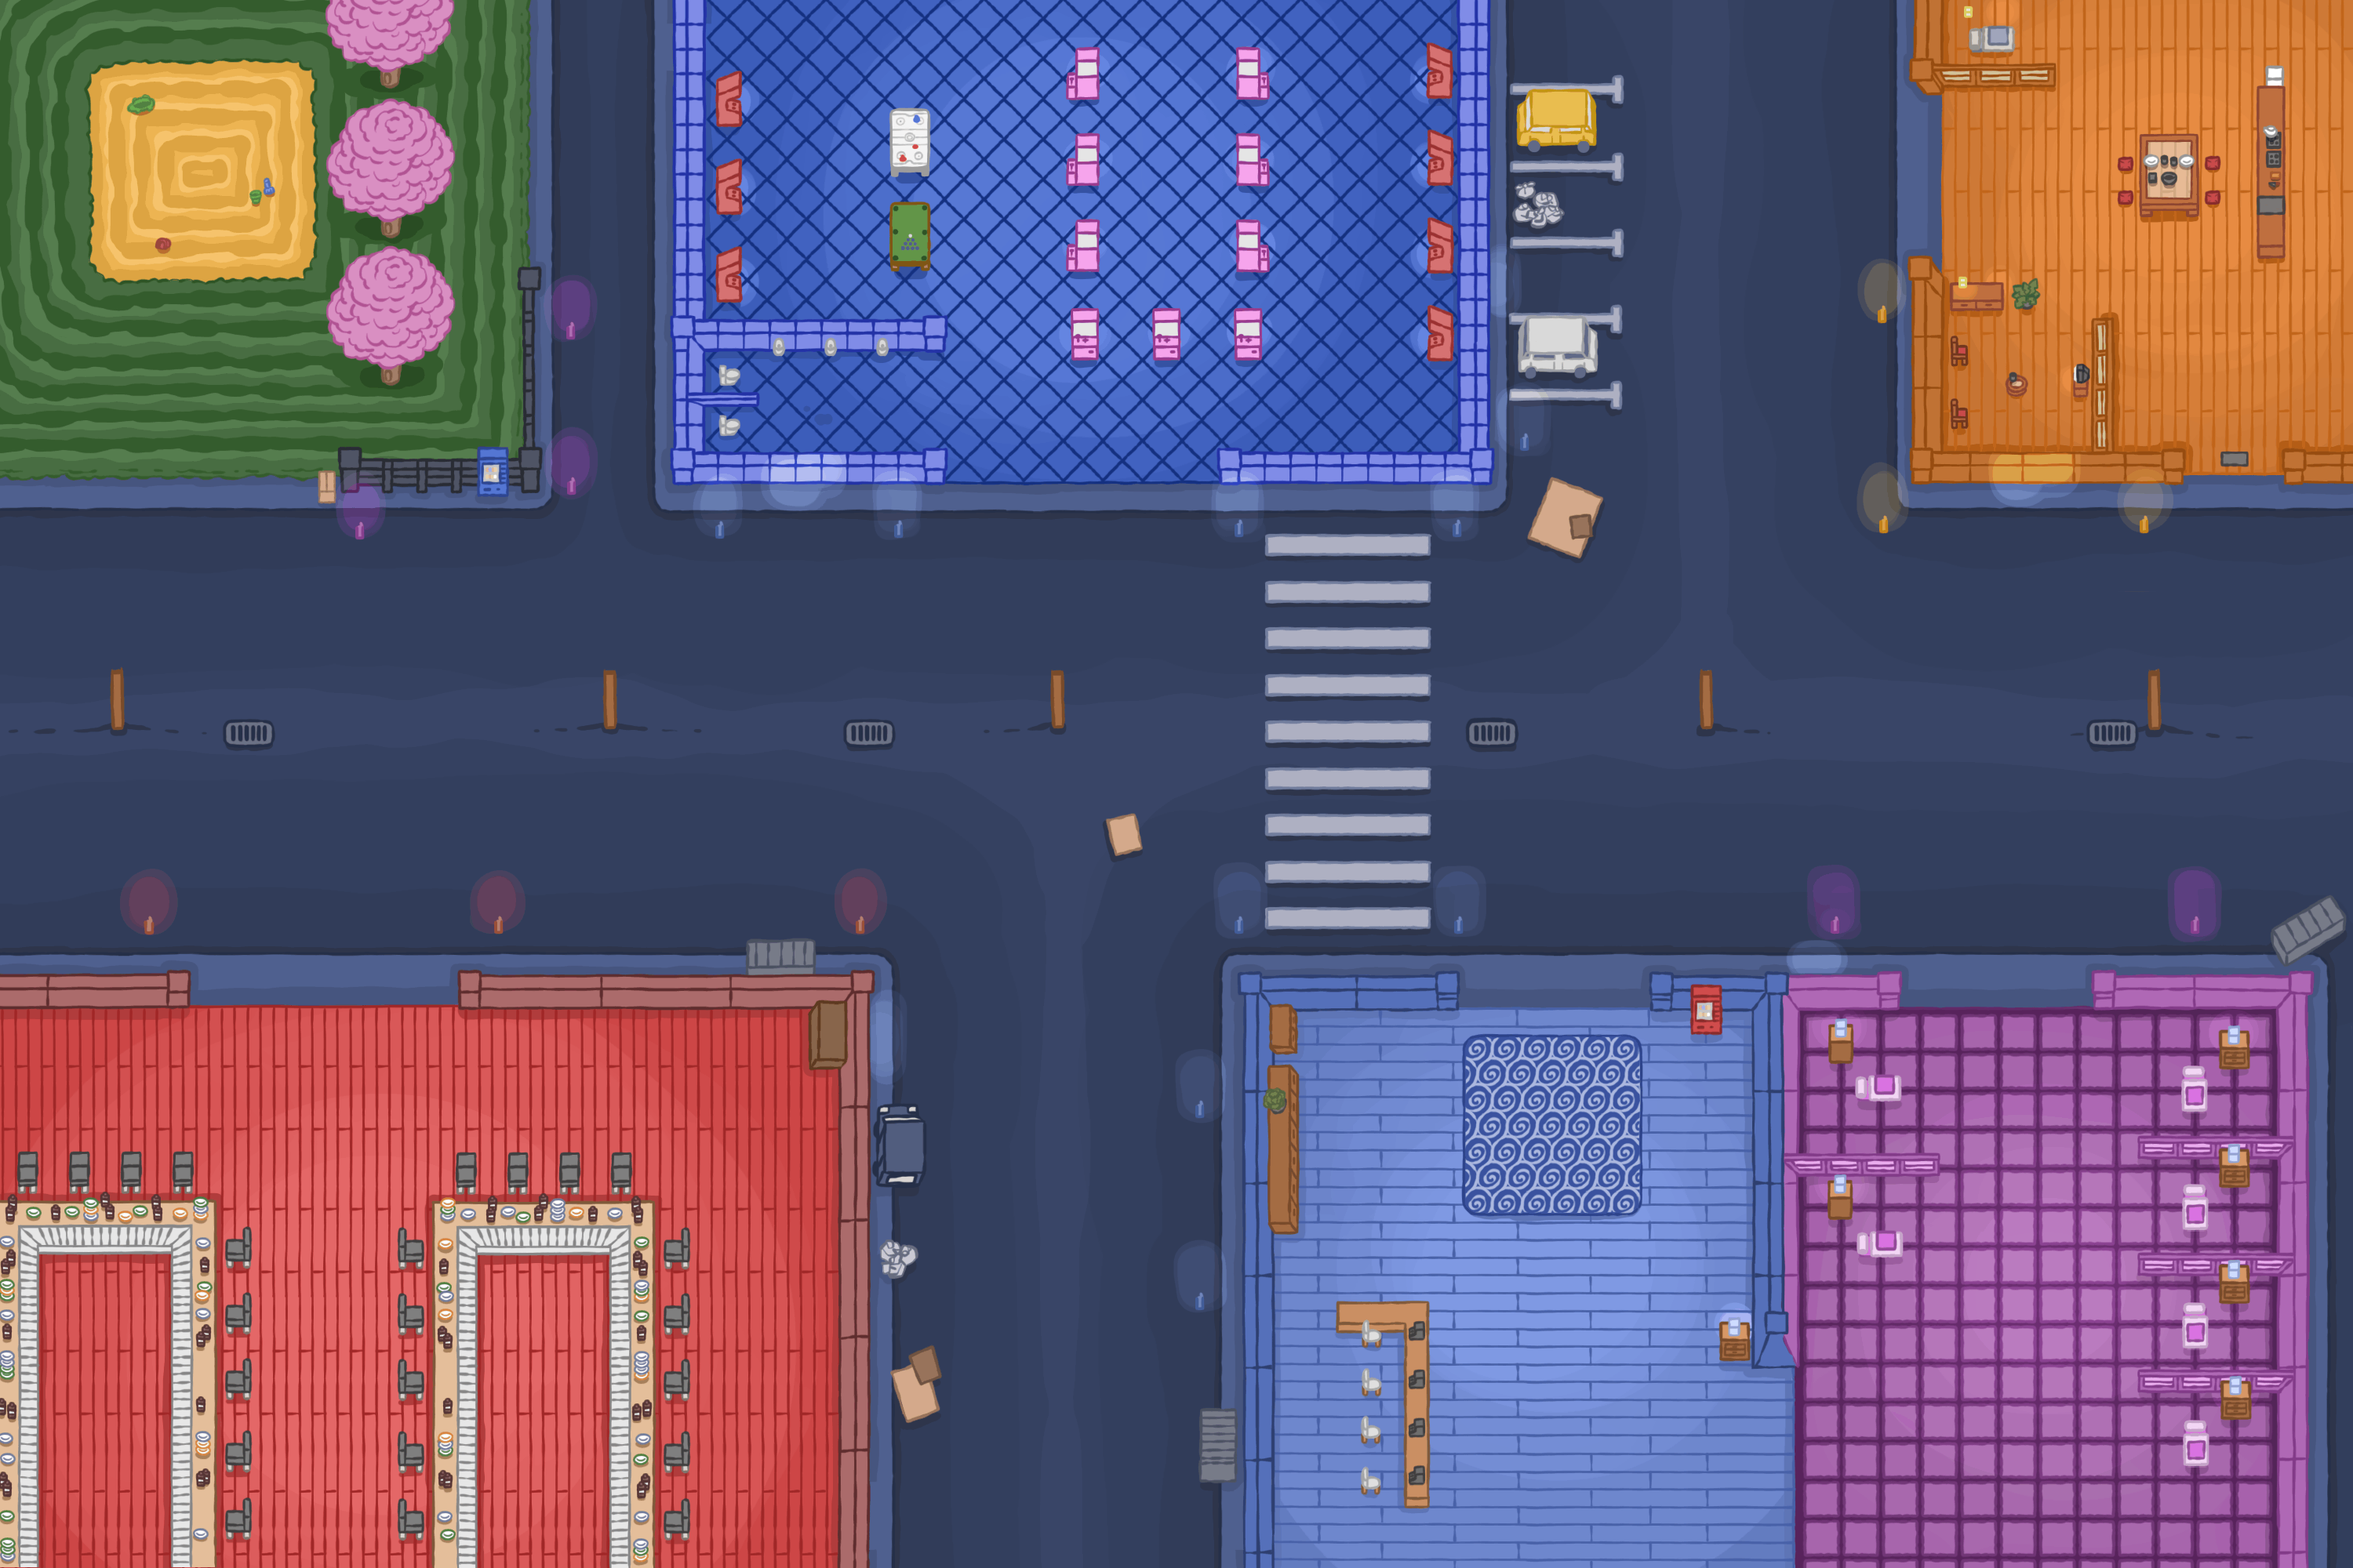
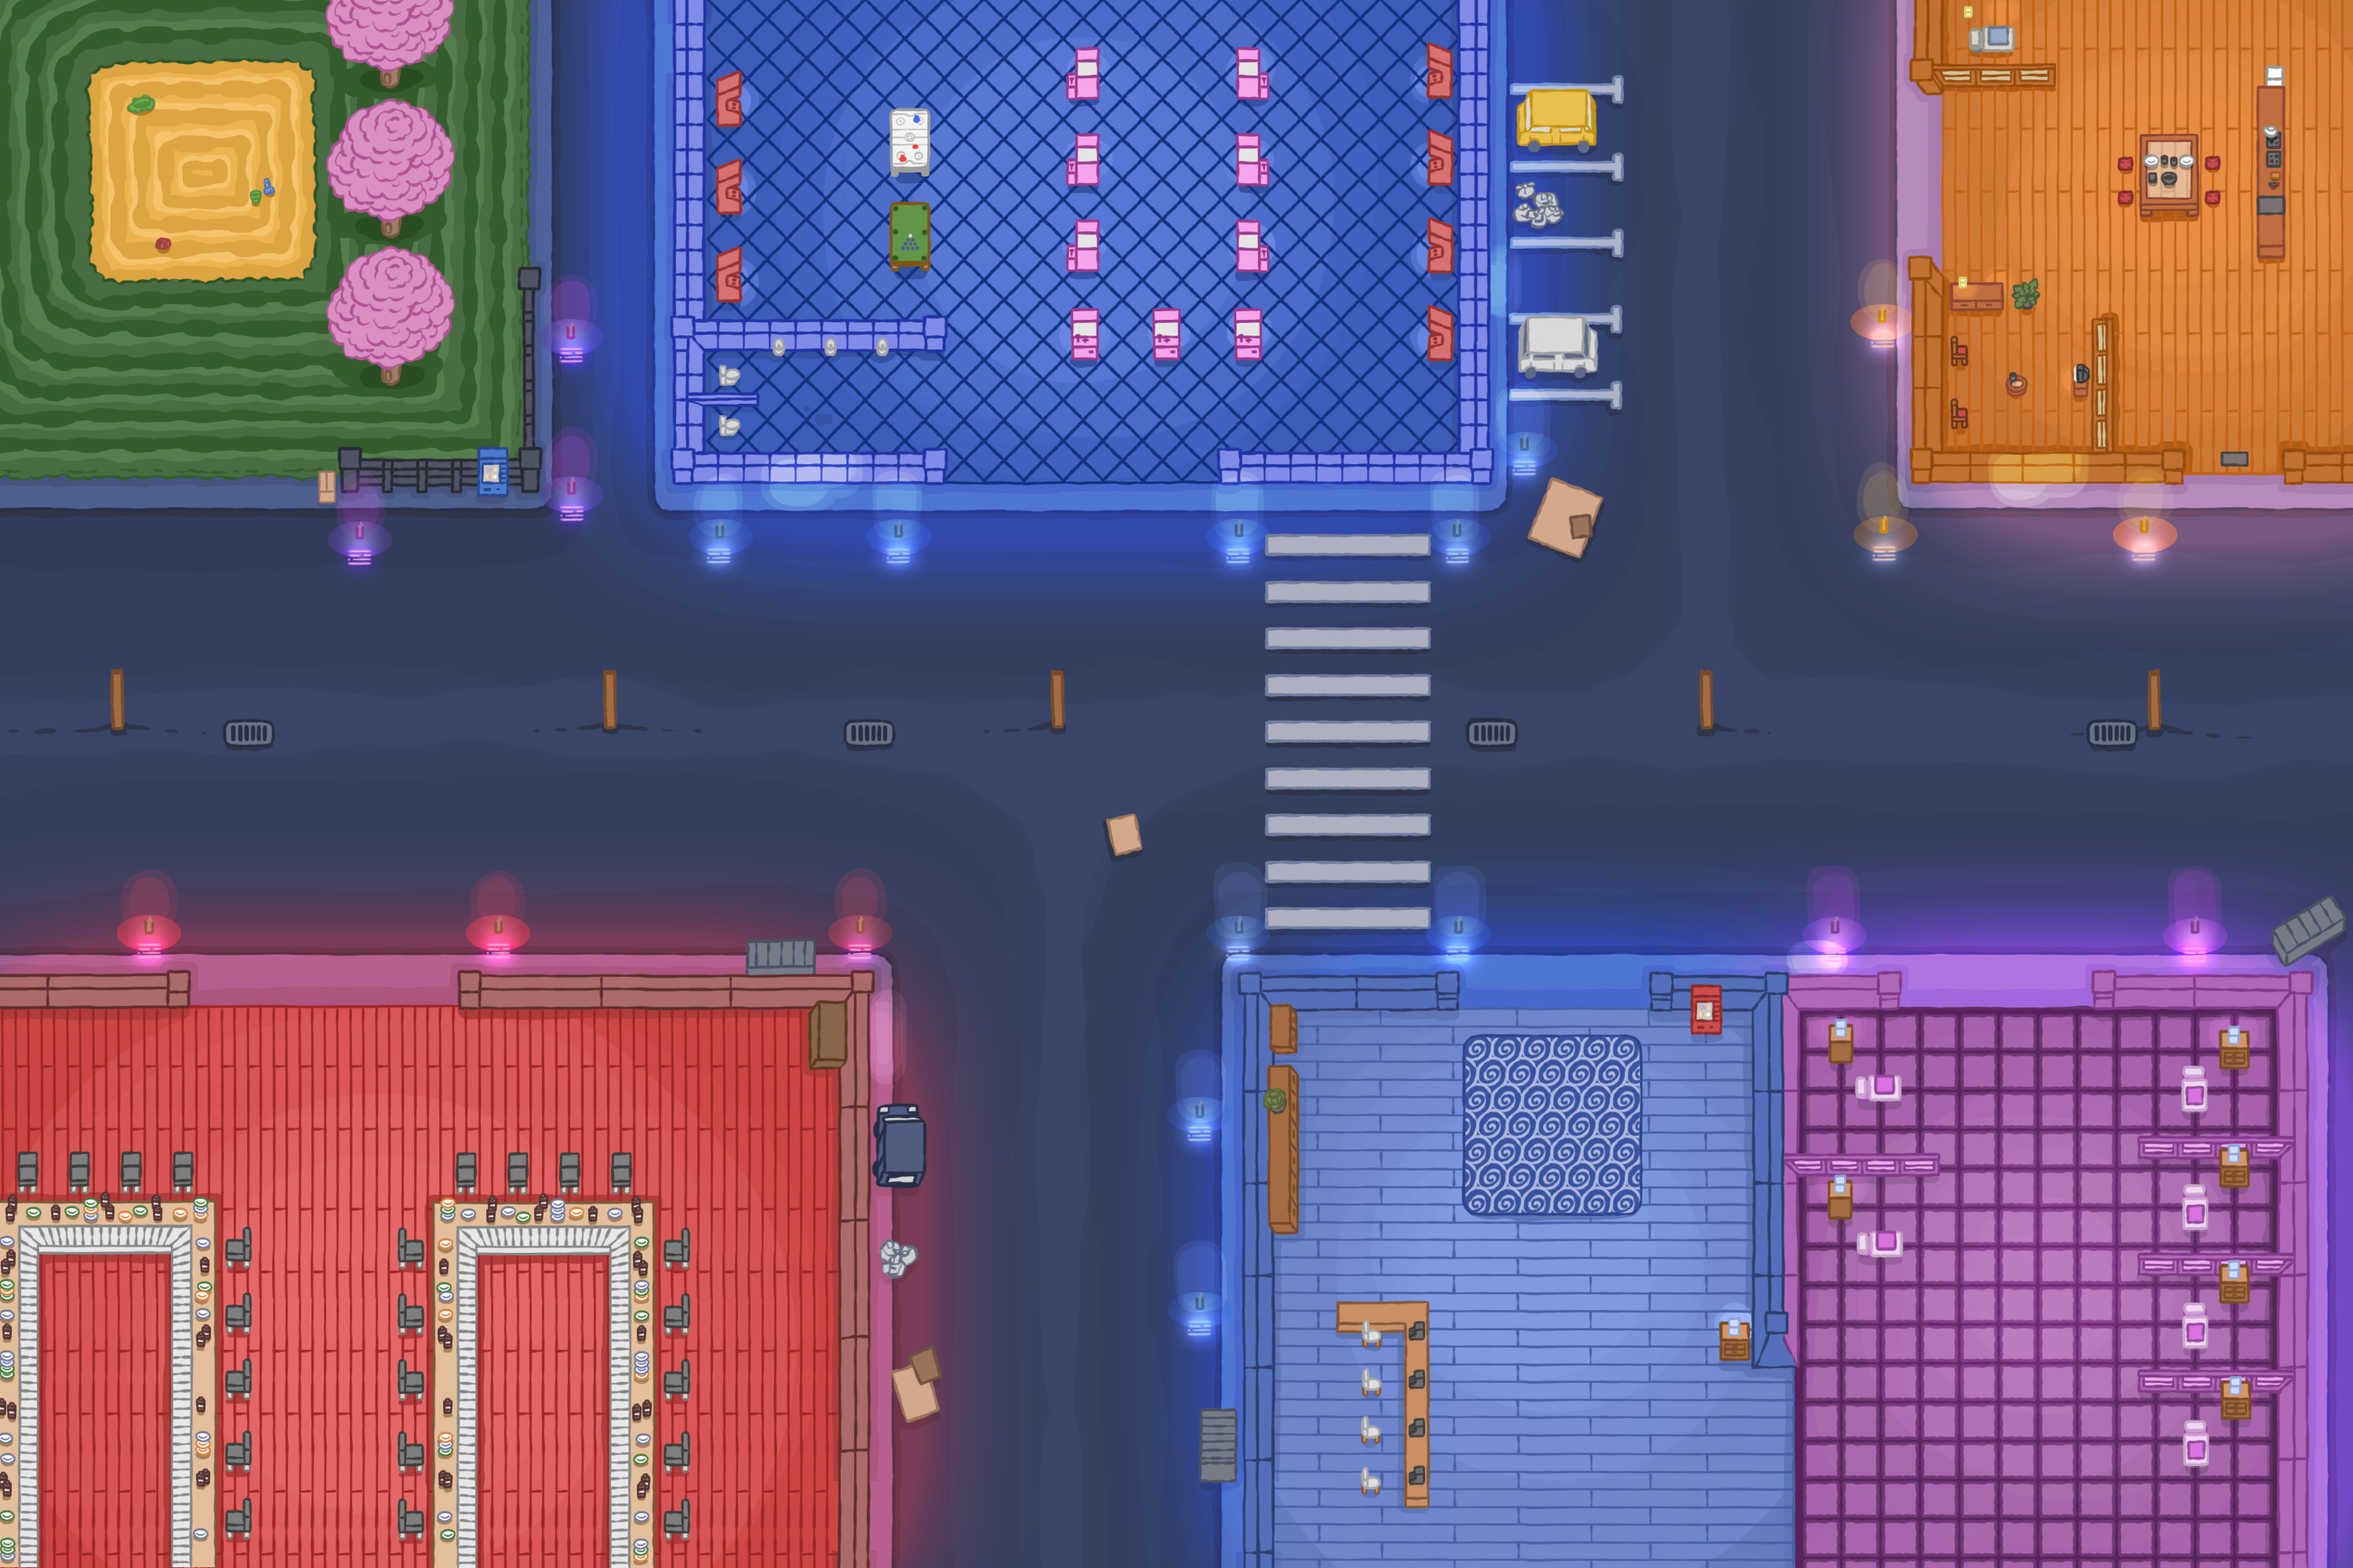
0.7.15 : ajout de la pluie + upgrade des assets map1

diff --git a/public/js/MapManager.js b/public/js/MapManager.js
@@ -1,6 +1,62 @@
 import { DEFAULT_GAME_SETTINGS } from './game-constants.js';
 
 // MapManager.js
+
+// Classe pour gérer l'effet de pluie spécifique à certaines maps
+class RainEffect {
+    constructor(basePath) {
+        this.spriteSheet = new Image();
+        // Utiliser le même chemin que les autres assets de la map
+        this.spriteSheet.src = `${basePath}/rain.png`;
+        
+        // Configuration de l'animation
+        this.frameWidth = 3000;   // 9000px ÷ 3 frames = 3000px par frame
+        this.frameHeight = 2000;  // Hauteur totale du spritesheet
+        this.totalFrames = 3;     // Nombre total de frames
+        this.currentFrame = 0;    // Frame actuelle
+        this.frameInterval = 100; // Intervalle entre les frames en ms
+        this.lastFrameTime = 0;
+        
+        // Paramètres de la pluie
+        this.opacity = 0.3;       // Transparence de la pluie
+        this.scale = 0.67;        // Scale pour adapter à une map de 2000x1500
+    }
+
+    update(currentTime) {
+        if (currentTime - this.lastFrameTime > this.frameInterval) {
+            this.currentFrame = (this.currentFrame + 1) % this.totalFrames;
+            this.lastFrameTime = currentTime;
+        }
+    }
+
+    draw(context, camera, mapWidth, mapHeight, canvas) {
+        if (!this.spriteSheet.complete) return;
+
+        context.save();
+        context.globalAlpha = this.opacity;
+        
+        const translateX = Math.round(canvas.width / 2 - camera.x * camera.scale);
+        const translateY = Math.round(canvas.height / 2 - camera.y * camera.scale);
+        
+        context.setTransform(
+            camera.scale * this.scale, 0,
+            0, camera.scale * this.scale,
+            translateX, translateY
+        );
+        
+        // Dessiner une seule fois l'effet de pluie car les dimensions correspondent déjà à la map
+        context.drawImage(
+            this.spriteSheet,
+            this.currentFrame * this.frameWidth, 0,  // Position source X et Y dans le spritesheet
+            this.frameWidth, this.frameHeight,       // Dimensions source dans le spritesheet
+            0, 0,                                    // Position de destination
+            this.frameWidth, this.frameHeight        // Dimensions de destination
+        );
+        
+        context.restore();
+    }
+}
+
 export class MapManager {
     constructor(canvas, options = {}) {
         if (!canvas) {
@@ -9,6 +65,10 @@ export class MapManager {
         
         this.canvas = canvas;
         this.debugMode = options.debugMode || false;
+        // Stocker la map sélectionnée comme propriété de la classe
+        this.selectedMap = options.selectedMap || 'map1';
+        this.mirrorMode = options.mirrorMode || false;
+        
         this.layers = {
             background: new Image(),
             collision: new Image(),
@@ -20,16 +80,15 @@ export class MapManager {
             collision: new Image(),
             foreground: new Image()
         };
-        // Récupérer la map sélectionnée ou utiliser map1 par défaut
-        const selectedMap = options.selectedMap || 'map1';
-        const mirrorMode = options.mirrorMode || false;
         
         // Construction du chemin en fonction de la map sélectionnée
-        const basePath = `/assets/maps/${selectedMap}/${mirrorMode ? 'mirror' : 'normal'}`;
+        const basePath = `/assets/maps/${this.selectedMap}/${this.mirrorMode ? 'mirror' : 'normal'}`;
         
         this.mapImages.background.src = `${basePath}/background.png`;
         this.mapImages.collision.src = `${basePath}/collision.png`;
         this.mapImages.foreground.src = `${basePath}/foreground.png`;
+
+        this.rainEffect = this.selectedMap === 'map1' ? new RainEffect(basePath) : null;
         
         // Récupérer les dimensions depuis les options
         this.mapWidth = options.mapWidth || 2000;
@@ -46,8 +105,9 @@ export class MapManager {
     async loadLayers() {
         try {
             const gameSettings = waitingRoom.settings || DEFAULT_GAME_SETTINGS;
-            const mapId = gameSettings.selectedMap || 'map1'; // au lieu de 'tokyo'
-            const mirrorMode = gameSettings.mirrorMode || false;
+            // Utiliser la propriété stockée de la classe
+            const mapId = this.selectedMap;
+            const mirrorMode = this.mirrorMode;
             
             const basePath = `/assets/maps/${mapId}/${mirrorMode ? 'mirror' : 'normal'}`;
             
@@ -60,6 +120,9 @@ export class MapManager {
             this.layers.background.src = `${basePath}/background.png`;
             this.layers.collision.src = `${basePath}/collision.png`;
             this.layers.foreground.src = `${basePath}/foreground.png`;
+
+            // Mettre à jour l'effet de pluie en fonction de la map
+            this.rainEffect = mapId === 'map1' ? new RainEffect(basePath) : null;
 
             // Vérifier que les chemins sont corrects
             console.log('Chemins des images:', {
@@ -113,17 +176,12 @@ export class MapManager {
 
     async updateMap(selectedMap = 'map1', mirrorMode = false) {
         try {
-            // Utiliser les valeurs par défaut si undefined
-            selectedMap = selectedMap || 'map1';
-            mirrorMode = mirrorMode ?? false;
+            // Mettre à jour les propriétés de la classe
+            this.selectedMap = selectedMap || 'map1';
+            this.mirrorMode = mirrorMode ?? false;
     
-            console.log('Début de la mise à jour de la map:', {
-                selectedMap,
-                mirrorMode,
-                mapManagerExists: !!this
-            });
-    
-            const basePath = `/assets/maps/${selectedMap}/${mirrorMode ? 'mirror' : 'normal'}`;
+            const basePath = `/assets/maps/${this.selectedMap}/${this.mirrorMode ? 'mirror' : 'normal'}`;
+            this.rainEffect = this.selectedMap === 'map1' ? new RainEffect(basePath) : null;
     
             // Créer des promesses pour le chargement des images
             const loadPromises = [];
@@ -240,10 +298,9 @@ export class MapManager {
             console.error('Canvas not initialized in MapManager');
             return;
         }
-
-        context.save();
     
-        // Appliquer la transformation de la caméra
+        context.save();
+        
         const translateX = Math.round(this.canvas.width / 2 - camera.x * camera.scale);
         const translateY = Math.round(this.canvas.height / 2 - camera.y * camera.scale);
         
@@ -253,8 +310,14 @@ export class MapManager {
             translateX, translateY
         );
     
-        // Dessiner le fond avec des dimensions fixes
+        // Dessiner le fond
         context.drawImage(this.layers.background, 0, 0, this.mapWidth, this.mapHeight);
+    
+        // Dessiner l'effet de pluie si présent
+        if (this.rainEffect) {
+            this.rainEffect.update(Date.now());
+            this.rainEffect.draw(context, camera, this.mapWidth, this.mapHeight, this.canvas);
+        }
     
         // Debug : afficher le calque de collision
         if (this.debugMode) {

diff --git a/public/client.js b/public/client.js
@@ -12,7 +12,7 @@ const mainMenu = document.getElementById('mainMenu');
 const gameScreen = document.getElementById('gameScreen');
 const nicknameInput = document.getElementById('nicknameInput');
 
-const GAME_VERSION = "v0.7.14";  // À mettre à jour à chaque déploiement
+const GAME_VERSION = "v0.7.15";  // À mettre à jour à chaque déploiement
 
 // Menu des paramètres et ses éléments
 const settingsMenu = document.getElementById('settingsMenu');
